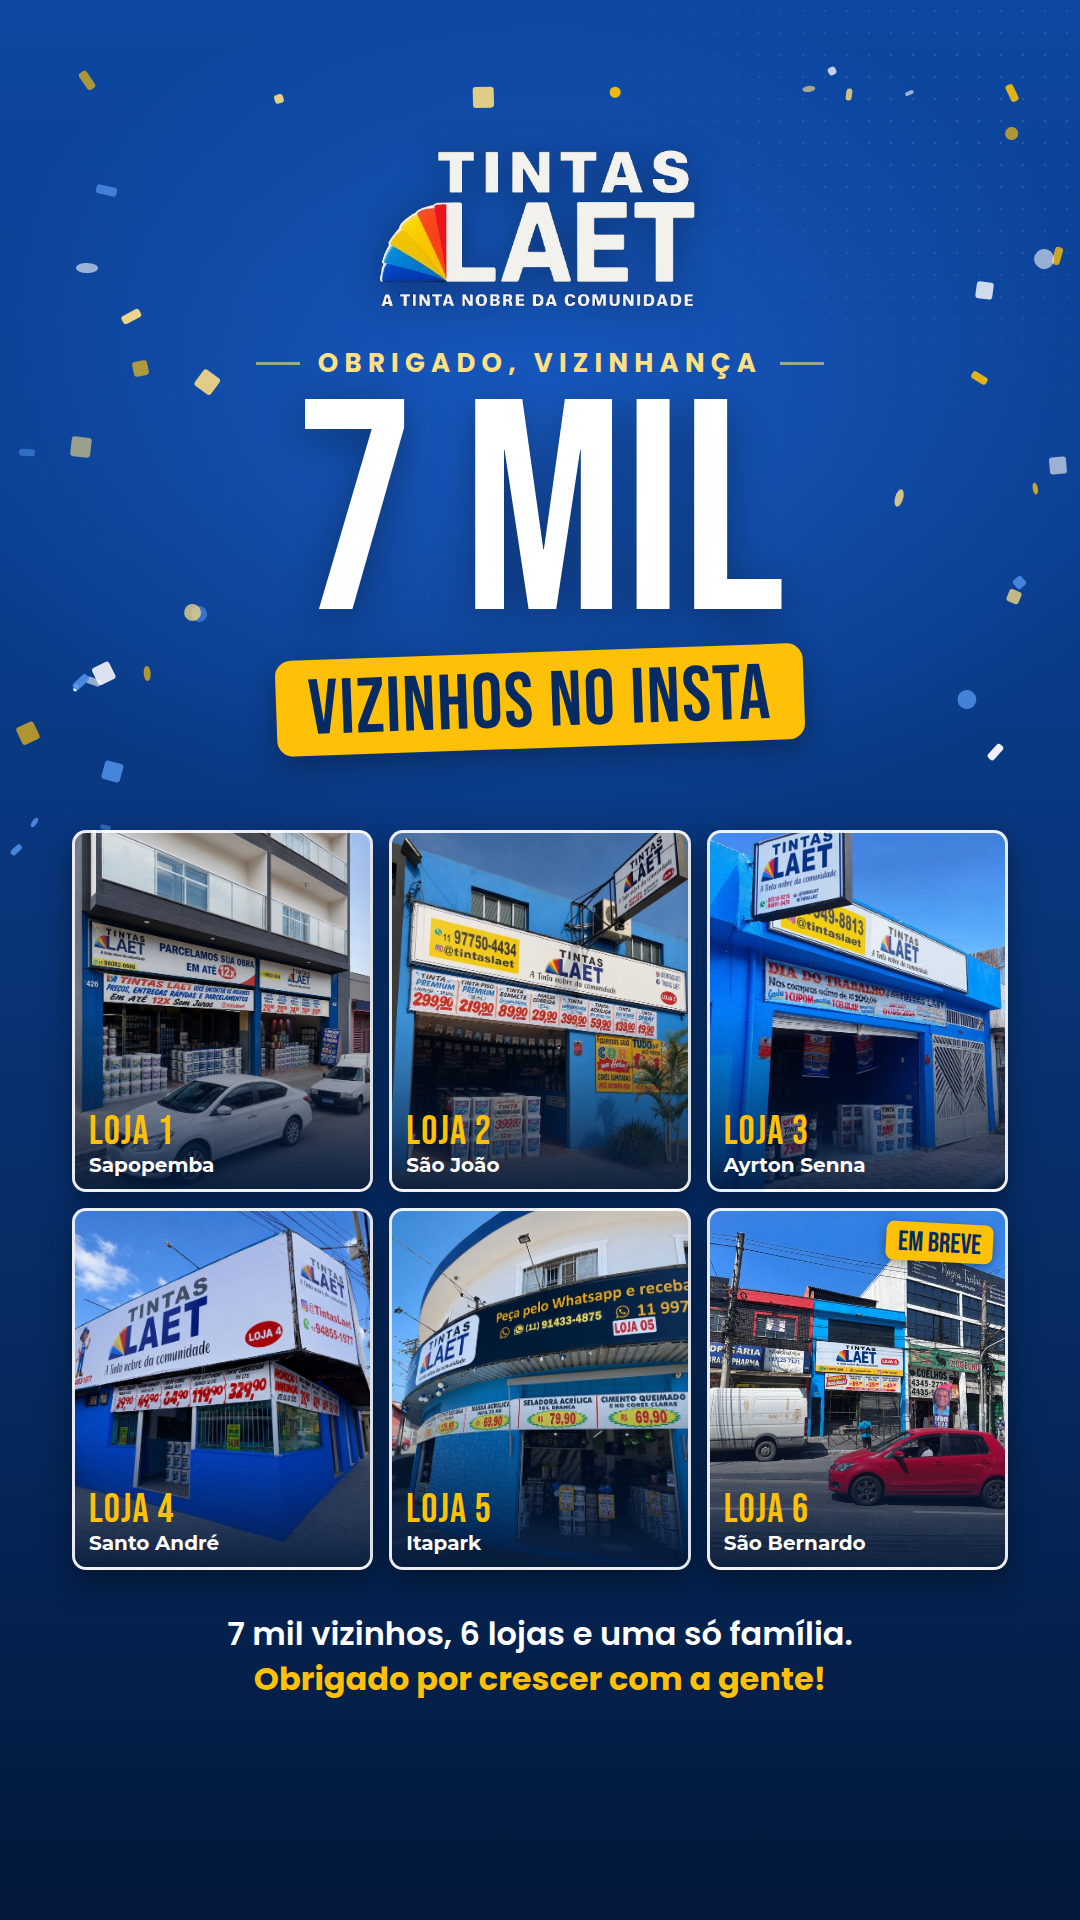
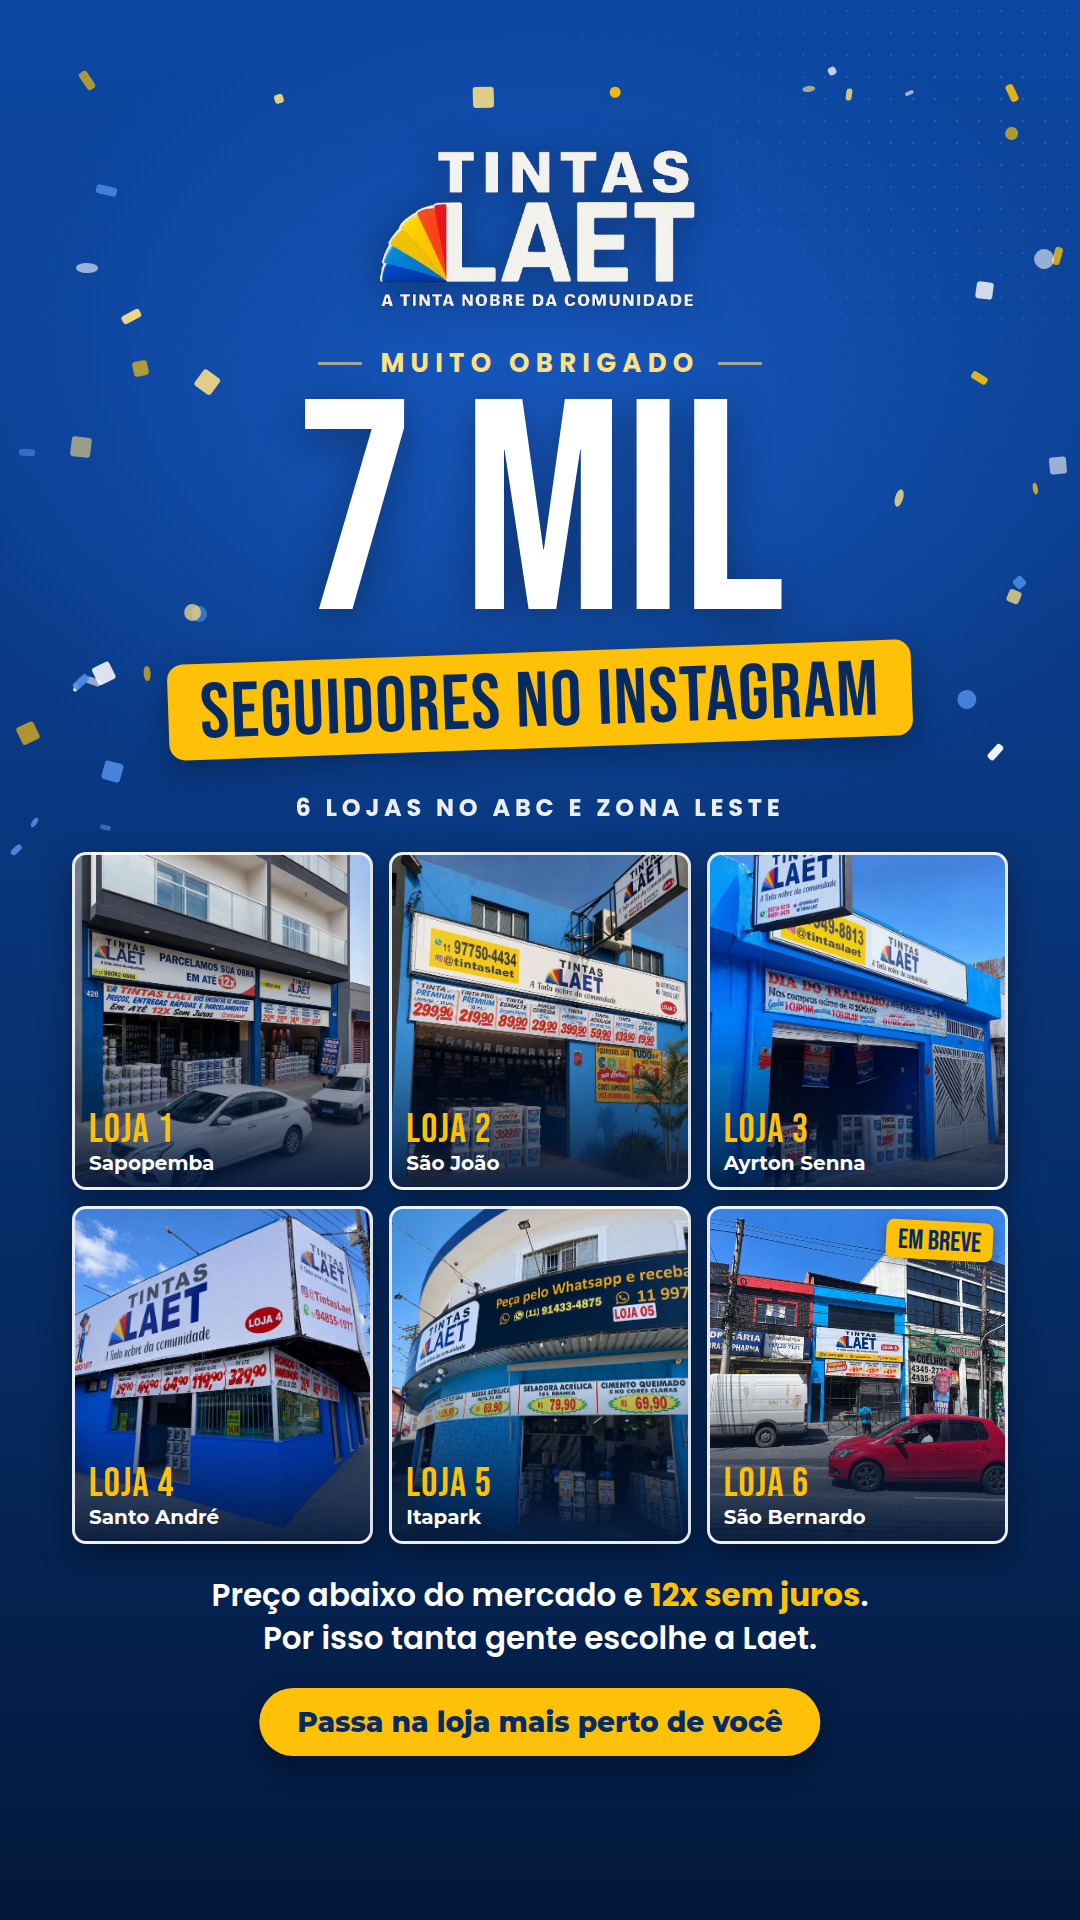
Story 7 mil: textos mais comerciais, sem "vizinho"
Claude-Session: https://claude.ai/code/session_01T1juQ1HtmtgQCZ8aLE8q1u

Changed region(s): [[0.0611, 0.3125, 0.9472, 0.9375], [0.5194, 0.1875, 0.7028, 0.2188], [0.3056, 0.1875, 0.4889, 0.2188]]

diff --git a/marketing/stories/2026-09/29-7mil-lojas/story.html b/marketing/stories/2026-09/29-7mil-lojas/story.html
@@ -31,8 +31,8 @@ body { background:#020A18; }
 .chip { display:inline-block; margin-top:10px; background:#FFC107; color:#062B63; font:400 78px/1 'Bebas Neue',sans-serif;
   padding:12px 32px 6px; border-radius:16px; transform:rotate(-2deg); box-shadow:0 10px 30px rgba(0,0,0,.3); letter-spacing:.02em; }
 
-.grid { position:absolute; left:72px; right:72px; top:830px; z-index:8; display:grid; grid-template-columns:repeat(3,1fr); gap:16px; }
-.t { position:relative; height:362px; border-radius:14px; overflow:hidden; background:#0D2F66 center/cover no-repeat;
+.grid { position:absolute; left:72px; right:72px; top:852px; z-index:8; display:grid; grid-template-columns:repeat(3,1fr); gap:16px; }
+.t { position:relative; height:338px; border-radius:14px; overflow:hidden; background:#0D2F66 center/cover no-repeat;
   border:3px solid rgba(255,255,255,.9); box-shadow:0 12px 30px rgba(0,0,0,.4); }
 .t::after { content:''; position:absolute; inset:0; background:linear-gradient(180deg, rgba(3,24,58,0) 50%, rgba(3,24,58,.92) 100%); }
 .t .lb { position:absolute; left:14px; right:14px; bottom:12px; z-index:2; }
@@ -41,7 +41,12 @@ body { background:#020A18; }
 .t .nova { position:absolute; top:12px; right:12px; z-index:2; background:#FFC107; color:#062B63; font:400 28px/1 'Bebas Neue',sans-serif;
   padding:7px 12px 4px; border-radius:8px; transform:rotate(3deg); box-shadow:0 4px 12px rgba(0,0,0,.35); }
 
-.msg { position:absolute; left:80px; right:80px; top:1612px; z-index:10; text-align:center; font:600 32px/1.4 'Poppins',sans-serif; }
+.msg { position:absolute; left:80px; right:80px; top:1574px; z-index:10; text-align:center; font:600 31px/1.4 'Poppins',sans-serif; }
+.lbl { position:absolute; left:0; right:0; top:796px; z-index:10; text-align:center; font:700 24px/1 'Poppins',sans-serif;
+  color:#fff; letter-spacing:.2em; text-transform:uppercase; opacity:.92; }
+.cta { position:absolute; left:50%; top:1688px; transform:translateX(-50%); z-index:10; white-space:nowrap;
+  background:#FFC107; color:#062B63; font:800 28px/1 'Montserrat',sans-serif; padding:20px 38px; border-radius:40px;
+  box-shadow:0 10px 26px rgba(0,0,0,.35); }
 .msg b { color:#FFC107; font-weight:700; }
 </style>
 </head>
@@ -52,11 +57,12 @@ body { background:#020A18; }
 
   <div class="top">
     <img src="../../../../identidade/logotipo branco-remove-bg-io.png" alt="Tintas Laet">
-    <div class="ey">Obrigado, vizinhança</div>
+    <div class="ey">Muito obrigado</div>
     <div class="num">7 MIL</div>
-    <div class="chip">VIZINHOS NO INSTA</div>
+    <div class="chip">SEGUIDORES NO INSTAGRAM</div>
   </div>
 
+  <div class="lbl">6 lojas no ABC e Zona Leste</div>
   <div class="grid">
     <div class="t" style="background-image:url('lojas/loja1.jpg')"><div class="lb"><div class="n">LOJA 1</div><div class="b">Sapopemba</div></div></div>
     <div class="t" style="background-image:url('lojas/loja2.jpg')"><div class="lb"><div class="n">LOJA 2</div><div class="b">São João</div></div></div>
@@ -66,7 +72,8 @@ body { background:#020A18; }
     <div class="t" style="background-image:url('lojas/loja6.jpg');background-position:62% center"><div class="nova">EM BREVE</div><div class="lb"><div class="n">LOJA 6</div><div class="b">São Bernardo</div></div></div>
   </div>
 
-  <div class="msg">7 mil vizinhos, 6 lojas e uma só família.<br><b>Obrigado por crescer com a gente!</b></div>
+  <div class="msg">Preço abaixo do mercado e <b>12x sem juros</b>.<br>Por isso tanta gente escolhe a Laet.</div>
+  <div class="cta">Passa na loja mais perto de você</div>
 </div>
 <script>
   const cores=['#FFC107','#FFE082','#FFFFFF','#4F8FE8'];
